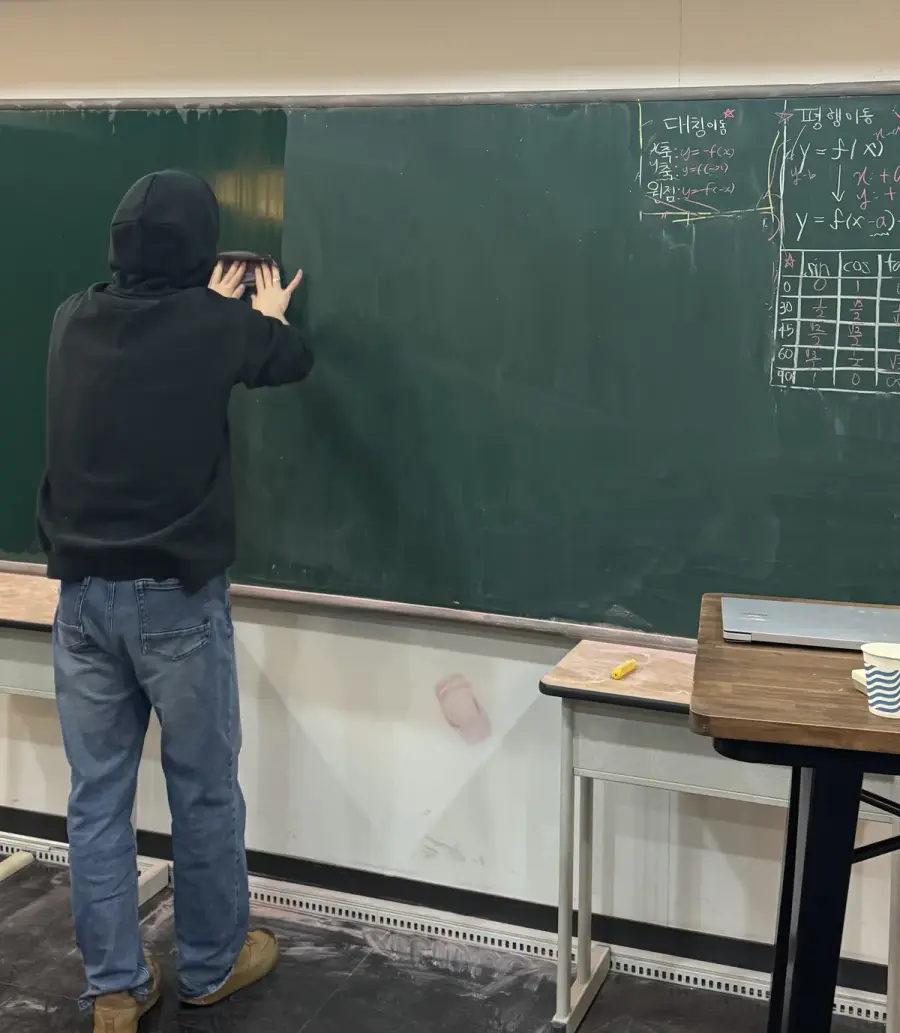
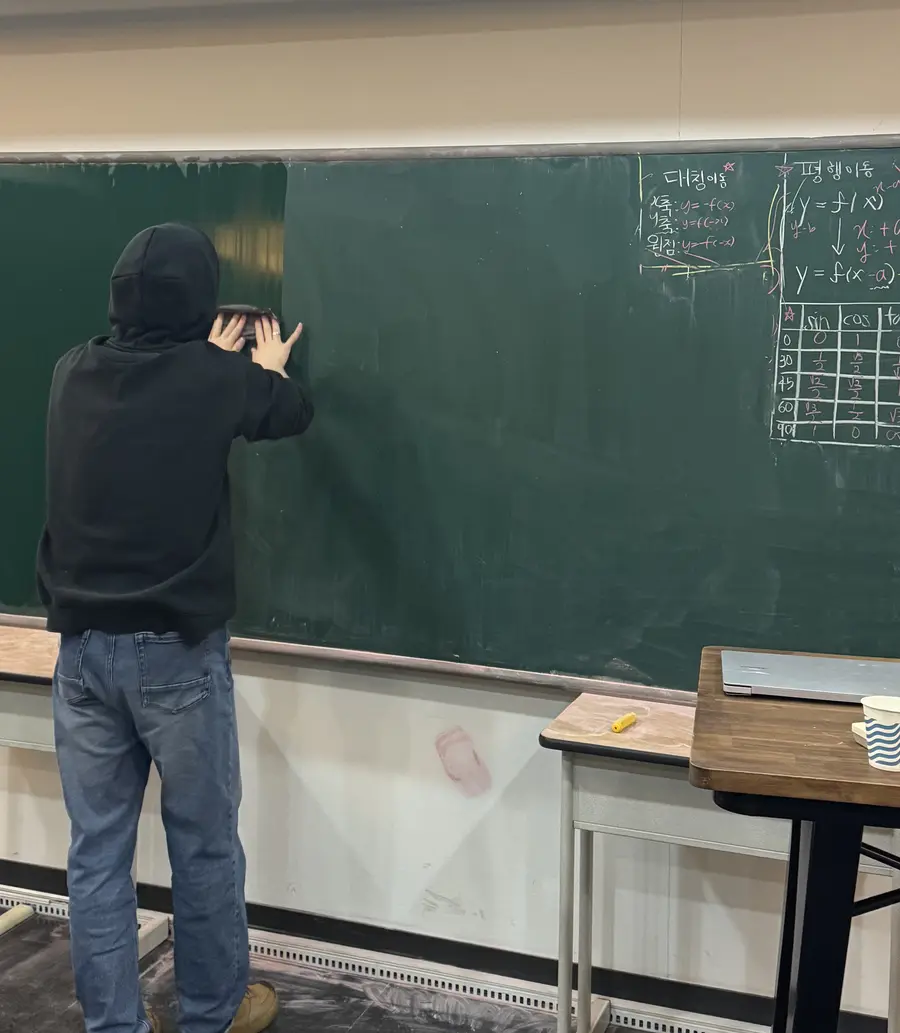
수업 철학 창 초기 접기와 제목 강조·사진·테마 연결 개선

diff --git a/src/components/StoryInvitation.css b/src/components/StoryInvitation.css
@@ -1,9 +1,10 @@
-.story-invitation { position:relative; padding:38px 24px 44px; background:radial-gradient(ellipse at 50% 0%,rgba(106,169,236,.13),transparent 70%),linear-gradient(180deg,#091524,var(--bg-dark)); color:var(--text-on-dark); text-align:center; }
-.story-invitation::after { content:''; display:block; width:min(480px,75%); height:1px; margin:30px auto 0; background:linear-gradient(90deg,transparent,rgba(158,189,220,.26),transparent); }
+.story-invitation { position:relative; padding:144px 24px 52px; background:radial-gradient(ellipse at 50% 50%,rgba(106,169,236,.09),transparent 72%),linear-gradient(180deg,#091524 0,var(--bg) 130px); color:var(--text); text-align:center; }
+.story-invitation::after { content:''; display:block; width:min(480px,75%); height:1px; margin:30px auto 0; background:linear-gradient(90deg,transparent,var(--border),transparent); }
 .story-invitation-link { display:flex; flex-direction:column; gap:12px; align-items:center; width:100%; max-width:880px; margin:auto; padding:6px 0; border:0; border-radius:4px; background:transparent; color:inherit; font:inherit; cursor:pointer; }
 .story-invitation-statement { font-size:clamp(21px,2.7vw,30px); font-weight:650; line-height:1.55; letter-spacing:-.04em; text-wrap:balance; }
-.story-invitation-hint { display:flex; align-items:center; gap:5px; color:#a9bfd5; font-size:13px; transition:color .2s; }
-.story-invitation-link:hover .story-invitation-hint { color:#e7f2ff; text-decoration:underline; text-underline-offset:5px; }
+.story-invitation-hint { display:flex; align-items:center; justify-content:center; gap:6px; color:var(--text-dim); font-size:15px; line-height:1.6; transition:color .2s; }
+.story-invitation-hint svg { flex-shrink:0; }
+.story-invitation-link:hover .story-invitation-hint { color:var(--brand); text-decoration:underline; text-underline-offset:5px; }
 .story-invitation-link:focus-visible,.story-dialog button:focus-visible,.story-chapter summary:focus-visible { outline:2px solid var(--brand-on-dark); outline-offset:5px; }
 .story-dialog { position:fixed; inset:0; width:min(860px,calc(100% - 48px)); max-width:none; max-height:88dvh; margin:auto; padding:0; border:1px solid var(--border-strong); border-radius:20px; background:var(--bg); color:var(--text); box-shadow:0 28px 100px #0008; overscroll-behavior:contain; font-family:var(--font); }
 .story-dialog::backdrop { background:rgba(3,10,20,.76); backdrop-filter:blur(8px); }
@@ -24,15 +25,18 @@
 .story-chapter[open] summary svg { transform:rotate(180deg); }
 .story-prose { max-width:660px; margin:auto; padding:0 0 28px; font-size:15px; line-height:1.95; word-break:keep-all; overflow-wrap:anywhere; color:var(--text-dim); }
 .story-prose p + p,.story-prose blockquote + p { margin-top:17px; }
-.story-prose mark { color:var(--text); background:linear-gradient(transparent 40%,rgba(245,210,62,.55) 40%,rgba(245,210,62,.55) 94%,transparent 94%); padding:0 2px; box-decoration-break:clone; -webkit-box-decoration-break:clone; font-weight:650; }
+.story-dialog mark { color:var(--text); background:linear-gradient(transparent 40%,rgba(245,210,62,.55) 40%,rgba(245,210,62,.55) 94%,transparent 94%); padding:0 2px; box-decoration-break:clone; -webkit-box-decoration-break:clone; font-weight:650; }
 .story-prose blockquote { margin:13px 0; border-left:2px solid var(--brand); padding:9px 15px; background:var(--brand-soft); border-radius:0 8px 8px 0; color:var(--text); font-size:14px; }
 .story-prose figure { margin:0 0 22px; }
 .story-prose figure img { width:100%; height:260px; object-fit:cover; border-radius:10px; }
+.story-prose img[src$="story-lesson.webp"] { object-position:center 32%; }
+.story-photos { display:grid; grid-template-columns:repeat(2,minmax(0,1fr)); gap:12px; }
+.story-prose .story-photos img { height:300px; object-position:center; }
 .story-prose figure figcaption { margin-top:6px; font-size:11px; color:var(--text-faint); }
 .story-comparison { list-style:none; counter-reset:criteria; margin:18px 0; padding:0; }
 .story-comparison li { counter-increment:criteria; display:flex; gap:12px; padding:14px 0; border-top:1px solid var(--border); }
 .story-comparison li::before { content:counter(criteria,decimal-leading-zero); font-size:12px; color:var(--brand); flex-shrink:0; }
 .story-sheet-foot { padding:24px 32px; display:flex; justify-content:flex-end; }
 .story-sheet-foot button { display:flex; align-items:center; gap:8px; background:var(--brand-soft); color:var(--text); border:1px solid var(--border); border-radius:30px; padding:12px 18px; font:inherit; font-size:14px; cursor:pointer; }
-@media(max-width:640px) { .story-invitation { padding:28px 24px 30px; } .story-invitation::after { margin-top:24px; } .story-dialog { width:100%; max-height:100dvh; height:100dvh; border-radius:0; border:0; } .story-sheet-head { padding:16px 20px; gap:12px; padding-top:max(16px,env(safe-area-inset-top)); } .story-tools { padding:10px 20px 4px; } .story-chapters { padding:0 20px; } .story-chapter summary { gap:10px; padding:20px 0; } .story-chapter h3 { font-size:16px; } .story-prose { font-size:14.5px; line-height:1.9; } .story-prose figure img { height:220px; } .story-sheet-foot { padding:22px 20px max(24px,env(safe-area-inset-bottom)); } }
+@media(max-width:640px) { .story-invitation { padding:104px 24px 36px; background:radial-gradient(ellipse at 50% 50%,rgba(106,169,236,.09),transparent 72%),linear-gradient(180deg,#091524 0,var(--bg) 90px); } .story-invitation-hint { font-size:14px; } .story-invitation::after { margin-top:24px; } .story-dialog { width:100%; max-height:100dvh; height:100dvh; border-radius:0; border:0; } .story-sheet-head { padding:16px 20px; gap:12px; padding-top:max(16px,env(safe-area-inset-top)); } .story-tools { padding:10px 20px 4px; } .story-chapters { padding:0 20px; } .story-chapter summary { gap:10px; padding:20px 0; } .story-chapter h3 { font-size:16px; } .story-prose { font-size:14.5px; line-height:1.9; } .story-prose figure img { height:220px; } .story-prose .story-photos img { height:210px; } .story-photos { gap:8px; } .story-sheet-foot { padding:22px 20px max(24px,env(safe-area-inset-bottom)); } }
 @media(prefers-reduced-motion:reduce) { .story-invitation-hint,.story-chapter summary svg { transition:none; } }

diff --git a/src/components/StoryInvitation.tsx b/src/components/StoryInvitation.tsx
@@ -18,7 +18,10 @@ export default function StoryInvitation() {
     if (!open) return
     const previous = document.body.style.overflow
     document.body.style.overflow = 'hidden'
+    // 이전에 펼친 항목과 읽던 위치를 다음 입장에 남기지 않습니다.
+    dialog.current?.querySelectorAll('details').forEach((item) => { item.open = false })
     dialog.current?.showModal()
+    if (dialog.current) dialog.current.scrollTop = 0
     return () => { document.body.style.overflow = previous }
   }, [open])
   function close() { dialog.current?.close() }
@@ -31,7 +34,7 @@ export default function StoryInvitation() {
     <section className="story-invitation" aria-label="팀레슨의 수업 철학">
       <button ref={trigger} className="story-invitation-link" aria-haspopup="dialog" onClick={() => setOpen(true)}>
         <span className="story-invitation-statement">{copy.cta}</span>
-        <span className="story-invitation-hint">그 이유를 읽어보세요 <ArrowUpRight size={16} aria-hidden="true" /></span>
+        <span className="story-invitation-hint">{copy.invitation} <ArrowUpRight size={16} aria-hidden="true" /></span>
       </button>
     </section>
     <dialog ref={dialog} className="story-dialog" aria-labelledby="story-dialog-title"
@@ -44,10 +47,16 @@ export default function StoryInvitation() {
         </header>
         <div className="story-tools"><span>{String(copy.chapters.length).padStart(2, '0')}개의 이야기</span><button onClick={toggleAll}>모두 펼치기 / 접기</button></div>
         <div className="story-chapters">
-          {copy.chapters.map((chapter, index) => <details className="story-chapter" key={chapter.title} open={index === 0}>
-            <summary><span className="story-number">{String(index + 1).padStart(2, '0')}</span><h3>{chapter.title}</h3><ChevronDown size={20} aria-hidden="true" /></summary>
+          {copy.chapters.map((chapter, index) => <details className="story-chapter" key={chapter.title}>
+            <summary><span className="story-number">{String(index + 1).padStart(2, '0')}</span><h3><Highlight text={chapter.title} /></h3><ChevronDown size={20} aria-hidden="true" /></summary>
             <div className="story-prose">
-              {chapter.image && <figure><img src={asset(chapter.image)} alt={chapter.imageAlt} loading="lazy" width="1200" height="800" /><figcaption>{chapter.imageAlt}</figcaption></figure>}
+              {chapter.image && <figure>
+                <div className={chapter.secondImage ? 'story-photos' : undefined}>
+                  <img src={asset(chapter.image)} alt={chapter.imageAlt} loading="lazy" width="900" height="800" />
+                  {chapter.secondImage && <img src={asset(chapter.secondImage)} alt={chapter.secondImageAlt} loading="lazy" width="900" height="800" />}
+                </div>
+                <figcaption>{chapter.imageAlt}</figcaption>
+              </figure>}
               {chapter.body.split(/\n\n+/).map((paragraph, i) => paragraph.startsWith('- ')
                 ? <ul className="story-comparison" key={i}>{paragraph.split('\n').map((line, j) => <li key={j}><span><Highlight text={line.replace(/^- /, '')} /></span></li>)}</ul>
                 : paragraph.startsWith('‘') && paragraph.endsWith('’') && index === 1

diff --git a/src/lib/contentSpec.ts b/src/lib/contentSpec.ts
@@ -28,12 +28,15 @@ export const contentSpec: SectionSpec[] = [
     key: 'storyManifesto', label: '첫 화면 아래의 수업 철학',
     fields: [
       { key: 'cta', label: '메인 안내 문구', kind: 'text' },
+      { key: 'invitation', label: '이야기 열기 문구', kind: 'text' },
       { key: 'title', label: '읽기 창 제목', kind: 'text' },
       { key: 'chapters', label: '이야기', kind: 'rows', titleKey: 'title', fields: [
         { key: 'title', label: '제목', kind: 'text' },
         { key: 'body', label: '본문', kind: 'multiline', hint: '<문구>는 노란 형광펜으로 표시됩니다. 문단은 빈 줄로 구분합니다.' },
         { key: 'image', label: '사진', kind: 'image' },
         { key: 'imageAlt', label: '사진 설명', kind: 'text' },
+        { key: 'secondImage', label: '함께 보여줄 두 번째 사진', kind: 'image' },
+        { key: 'secondImageAlt', label: '두 번째 사진 설명', kind: 'text' },
       ] },
     ],
   },

diff --git a/README.md b/README.md
@@ -2,8 +2,9 @@
 
 첫 화면과 For Whom 사이의 수업 철학 안내는 `StoryInvitation`에서 표시합니다.
 본문 기본값은 `src/storyManifesto.ts`이며 `/app/content`의 ‘첫 화면 아래의 수업 철학’에서 편집할 수 있습니다.
-본문의 `<문구>`는 형광펜, 빈 줄은 문단, `- `로 시작하는 연속 줄은 비교 목록으로 표시합니다.
-읽기 창은 제목별로 여러 항목을 펼칠 수 있고, 닫기·Escape·하단 복귀 버튼으로 원래 위치로 돌아옵니다.
+제목과 본문의 `<문구>`는 형광펜, 빈 줄은 문단, `- `로 시작하는 연속 줄은 비교 목록으로 표시합니다.
+읽기 창은 매번 모두 접힌 상태로 시작하며, 제목별로 여러 항목을 펼칠 수 있습니다. 닫기·Escape·하단 복귀 버튼으로 원래 위치로 돌아옵니다.
+두 번째 사진을 지정하면 같은 가로 폭 안에서 사진 두 장을 나란히 표시합니다.
 
 노베이스를 위한 수능수학 — Teamlesson 공식 웹사이트.
 
